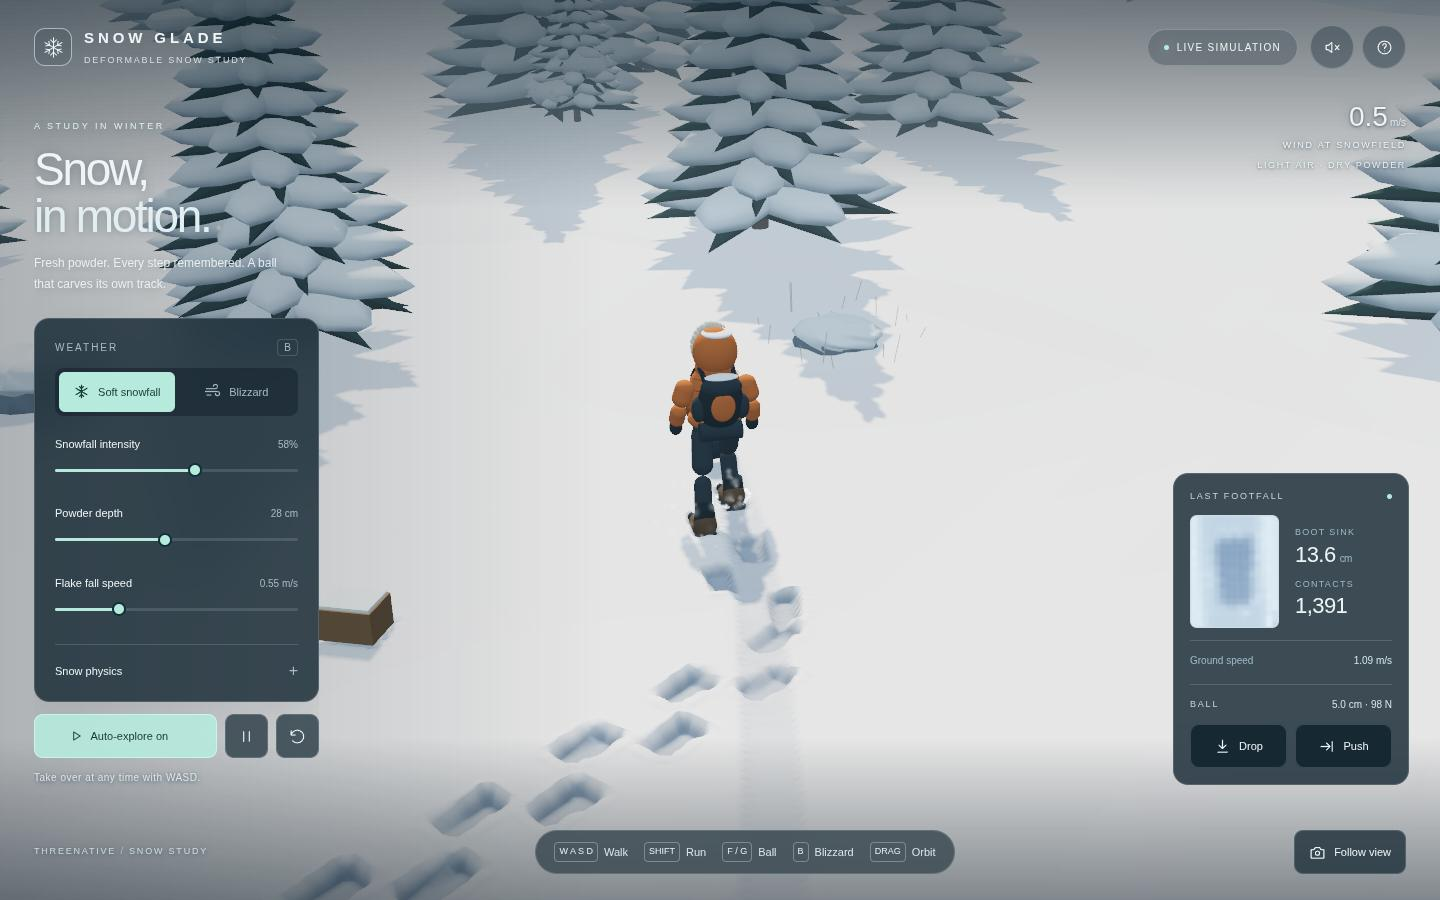
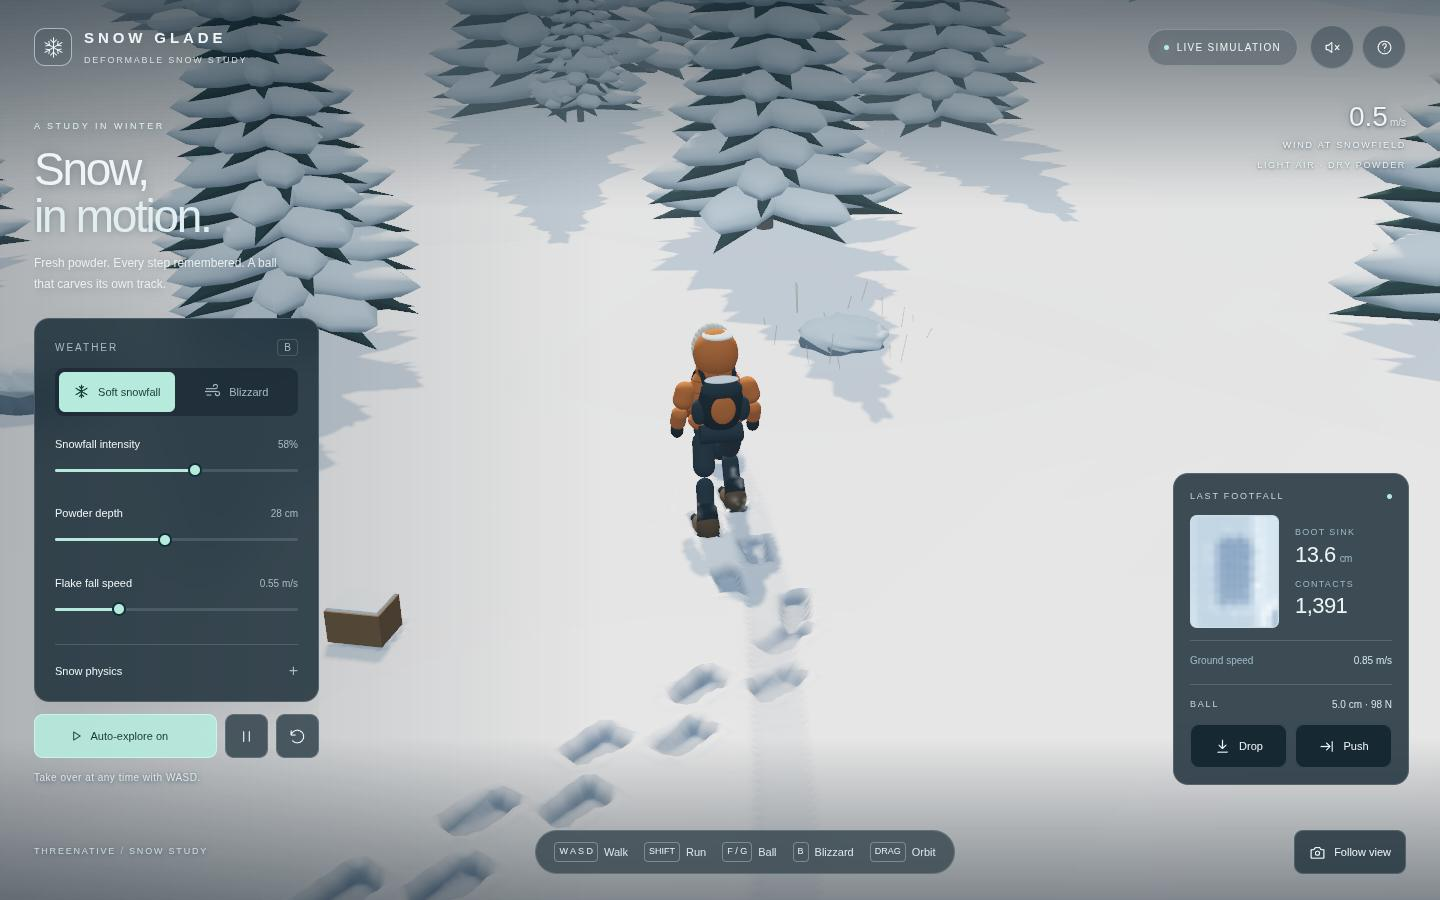
docs(prd-469): real-time numbers, trade-off and capability entry for the walk-surface fix
Follow-up to 23eff534a, per the review constraints:
- Real-time play measured, not only the runner's tick bursts. Wall-clock run,
  10 s of walking at 1920x1080 on NVIDIA Turing. Before: per-frame p95
  14.2-17.1 ms, update p95 2.8-3.8 ms, 130-195 fps. After: per-frame p95
  12.8-14.3 ms, update p95 1.7-2.3 ms, 158-248 fps. The burst-mode scenario
  passes at the unchanged 33 ms (p95 27.5-30.0).
- Visual check: re-captured the walking kit and the surface view; the prints
  and planted boots match the committed captures, which are refreshed here.
- AC-3/AC-4 untouched: snow-contacts.spec.ts 14/14 is unchanged, and the ball,
  crate and log still press the 6 cm snow.
- Heightfield.trackChanges() kept: 1.29-1.45 -> 0.89-0.91 ms per binding step
  on a 401^2 field that changes every step. The class-level @situation now
  carries it into the generated manifests and reference (pnpm build); there
  are no hand edits. Existing callers see no behaviour change.

Gates: typecheck, lint, budgets, check:docs, sync:agents --check, caps:recall
all exit 0. Physics + heightfield + snow-field + create-threenative + engine-mcp
specs pass 1,213/1,213. Scaffold hashes did not move.

diff --git a/packages/core/src/world.ts b/packages/core/src/world.ts
@@ -145,6 +145,7 @@ function validateWorldPassBudget(options: IHeightfieldWorldPassOptions): void {
  * @situation query the same ground height or normal that a player sees and collides with
  * @situation ask how high the ground is here
  * @situation build islands and coastlines from terrain
+ * @situation keep a collider or other copy of a deforming terrain in step without rescanning the whole field (`trackChanges`)
  * @constraint sampleHeight owns the terrain shape and stays in game source; the framework stores and interpolates its output
  * @constraint rows and columns are vertex counts; geometry is row-major z-then-x and collider export transposes once into Rapier's column-major matrix order
  * @override rows, columns, width, depth, origin, and sampleHeight are explicit on every field
@@ -483,9 +484,11 @@ export class Heightfield extends Group implements IComputeDriven {
    * changed since *it* last looked; comparing the whole field instead costs every sample on every
    * change. Each tracker keeps its own union of the windows `updateHeights` wrote, so two
    * consumers never take each other's changes.
-   * @situation keep a collider or other copy of a deforming terrain in step without rescanning it
-   * @example const changes = field.trackChanges();
+   *
+   * ```ts
+   * const changes = field.trackChanges();
    * const changed = changes.take(); // undefined when nothing was written
+   * ```
    */
   trackChanges(): IHeightfieldChangeTracker {
     const state: { region: IHeightfieldRegionBounds | undefined } = { region: undefined };

diff --git a/docs/PRDs/done/PRD-469-icefield-snow-abstractions-and-starter-kit.md b/docs/PRDs/done/PRD-469-icefield-snow-abstractions-and-starter-kit.md
@@ -124,7 +124,10 @@ Proposed file paths become actual entry-point references when their owning phase
 - 2026-09-30 (planning): physics acceptance explicitly includes spheres, not just character steps. Reuse the existing terrain, bodies, particles and scaffold mechanisms; the snow starter owns its look.
 - 2026-10-01 (implementation, measured): native snow surfaces are Rapier heightfields, not the planned canonical-sample trimesh. The trimesh adapter worked (web/native surfaces agreed within 1e-4 m) but rebuilding it on native took 101 ms at 321 samples and 179 ms at 401 (cargo micro-benchmark), so every footstep hitched the desktop host; a heightfield rebuild copies samples only (0.24 ms / 0.38 ms). Native now receives the same column-major samples the web backend hands Rapier, so both runtimes build one surface by construction.
 - 2026-10-01 (implementation, measured, withdrawn): powder takes no energy from what moves through it. Building the sandbox demo showed a 10 kg ball at rest on the kit's 7% glade slope rolls about 4 m off its tee, and a pushed ball is still moving at 0.7 m/s four seconds later. Three rolling-resistance models were added to `attachSnowPhysics` and measured on real Rapier (soft-ground `sqrt(sinkage/width)` drag at the centre, the same at the rolling lever, compaction work), plus a force-couple torque swept headless; none held on both backends (native desktop over-spun, roll ratio 5.9, reach 0.47, so the kit's native scenario failed 3/3), so the feature was reverted rather than shipped half-right. The binding deforms snow without taking energy; snow rolling resistance is open engine work. The attempt surfaced a real seam bug, now fixed on web and native with tests: `applyForceAtPoint`'s torque was never cleared, so it kept spinning a body up after its step.
-- 2026-10-01 (merge of develop PRD-470/471/472/474, root-caused and fixed): after the merge the kit's `production-performance` read frame p95 39.9–44 ms against its 33 ms ceiling. Develop's loop now leaves boot frames out of the window, which exposed an existing cost. The slow frames are the runner's `waitTicks` bursts, about 8–10 fixed steps per presented frame, and each step cost about 2.5–3 ms on web. Most of that was the explorer's `CharacterBody3D`: Rapier sweeps a character capsule against every collider triangle under it, so one capsule `castShape` costs 0.04 ms on a 51² heightfield and 0.63 ms on the kit's 401² (6 cm) snow. Squeezing 401² into 6 m costs 8 ms, and splitting it into 8×8 tiles changes nothing, so the cost is triangles under the sweep, not collider size. Disabling the explorer's movement alone took the physics step from about 1.3 to 0.4 ms. Fix, in the kit: the explorer collides with a coarse walk surface (ground plus fresh snow, 101², 24 cm; `walkSurface`/`WALK_SAMPLES` in `src/terrain.ts`), on its own collision layers that leave the snow collider to the ball, crate and log. Its drawn height and boots already came from the canonical snow, so nothing visible changes. Engine: the binding now compares only the window written since its last collider rebuild, through the new `Heightfield.trackChanges()`, instead of the whole field each step. Result, threshold unchanged: p95 27.5 and 30.0 ms; `TN_TEMPLATE_ONLY=snow pnpm test:templates` exit 0 with all 7 scenarios; native `snow-physics` 3/3 and `survives` pass.
+- 2026-10-01 (merge of develop PRD-470/471/472/474, root-caused and fixed): after the merge the kit's `production-performance` read frame p95 39.9–44 ms against its 33 ms ceiling. Develop's loop now leaves boot frames out of the window, which exposed an existing cost. The slow frames are the runner's `waitTicks` bursts, about 8–10 fixed steps per presented frame, and each step cost about 2.5–3 ms on web. Most of that was the explorer's `CharacterBody3D`: Rapier sweeps a character capsule against every collider triangle under it, so one capsule `castShape` costs 0.04 ms on a 51² heightfield and 0.63 ms on the kit's 401² (6 cm) snow. Squeezing 401² into 6 m costs 8 ms, and splitting it into 8×8 tiles changes nothing, so the cost is triangles under the sweep, not collider size. Disabling the explorer's movement alone took the physics step from about 1.3 to 0.4 ms. Fix, in the kit: the explorer collides with a coarse walk surface (ground plus fresh snow, 101², 24 cm; `walkSurface`/`WALK_SAMPLES` in `src/terrain.ts`), on its own collision layers that leave the snow collider to the ball, crate and log. Its drawn height and boots already came from the canonical snow, so nothing visible changes. Engine: the binding now compares only the window written since its last collider rebuild, through the new `Heightfield.trackChanges()`, instead of the whole field each step. Result, threshold unchanged: the scenario's p95 is 27.5 and 30.0 ms (27.8 on the first run); `TN_TEMPLATE_ONLY=snow pnpm test:templates` exit 0 with all 7 scenarios; native `snow-physics` 3/3 and `survives` pass.
+  - What a player gets, as distinct from the runner's tick bursts: a wall-clock run (`__THREENATIVE_PLAYTEST_CLOCK__ = "wall-clock"`, 10 s of walking at 1920×1080, NVIDIA Turing). Before: 130–195 fps, per-frame p95 14.2–17.1 ms, update p95 2.8–3.8 ms, 1,024-sample p95 16.7 ms. After: 158–248 fps, per-frame p95 12.8–14.3 ms, update p95 1.7–2.3 ms, 1,024-sample p95 15.2 ms. Both were already above 60 fps on this desktop; the step cost matters most on slower devices.
+  - Trade-off: the explorer's capsule no longer drops into its own prints or the ball's crater; it walks at fresh-snow level over a 24 cm surface. Its drawn body and boots never followed the capsule (they come from the canonical snow and the gait's IK), so the frame does not change. A re-capture of the walking kit (`snow-kit-webgpu-1440x900.jpg`, `snow-kit-webgpu-surface-view-1440x900.jpg`, refreshed) shows the same prints, and the boots plant in them. AC-3/AC-4 are untouched: the ball, crate and log still press the 6 cm snow through `attachSnowPhysics` (`snow-contacts.spec.ts` 14/14 unchanged), and footfalls still stamp it.
+  - `Heightfield.trackChanges()` stays because it is not a micro-win. On a kit-sized 401² field where the surface changes every step (a rolling ball), the binding cost 1.29–1.45 ms per step comparing the whole field and 0.89–0.91 ms comparing only the changed window, about 0.4 ms a step (node, real Rapier). Existing callers see no behaviour change: `updateHeights` only unions into live trackers, and `takeDirtyRegion` is untouched. Unit-tested in `world-heightfield.spec.ts`; the class's capability entry names it.
 - 2026-10-01 (implementation, unexplained engine issue): in the snow kit a bloom threshold of 0.92 left the native Linux desktop frame blank behind the HUD (Dawn/Vulkan, RTX 2080) while the web rendered it correctly; thresholds 0.2 and 0.7 rendered on native. Not root-caused. The kit ships with bloom off (its glints come from the snow material), recorded in `templates/snow/src/render/quality.ts`; the coordinator shared the finding with the rain lane, which also uses bloom natively.
 
 ## Current state (this branch)

diff --git a/packages/create-threenative/agent-docs/references/capability-reference.md b/packages/create-threenative/agent-docs/references/capability-reference.md
@@ -2874,7 +2874,7 @@ const capabilities = getWorldCapabilities({ limits: adapter.limits, cpuFallbackI
 export class Heightfield extends Group implements IComputeDriven { … }
 ```
 
-- **Use when:** build terrain geometry and collision from one game-authored height function · generate a terrain a player can walk across · query the same ground height or normal that a player sees and collides with · ask how high the ground is here · build islands and coastlines from terrain
+- **Use when:** build terrain geometry and collision from one game-authored height function · generate a terrain a player can walk across · query the same ground height or normal that a player sees and collides with · ask how high the ground is here · build islands and coastlines from terrain · keep a collider or other copy of a deforming terrain in step without rescanning the whole field (`trackChanges`)
 - **Constraints:** sampleHeight owns the terrain shape and stays in game source; the framework stores and interpolates its output · rows and columns are vertex counts; geometry is row-major z-then-x and collider export transposes once into Rapier's column-major matrix order
 - **Overrides:** rows, columns, width, depth, origin, and sampleHeight are explicit on every field
 
